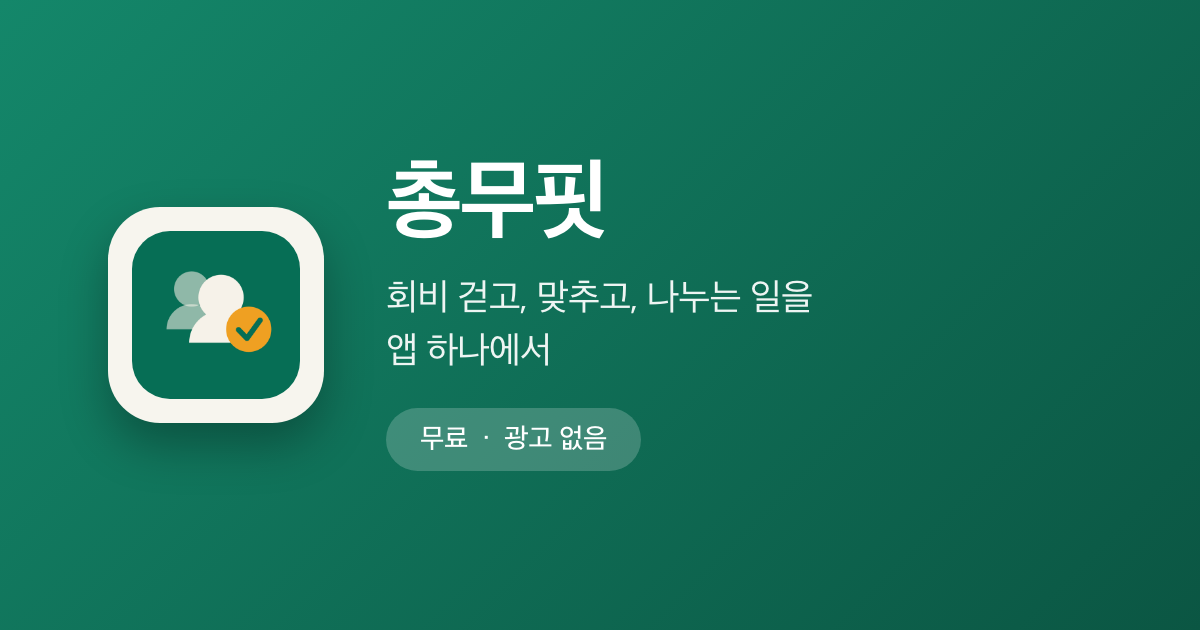
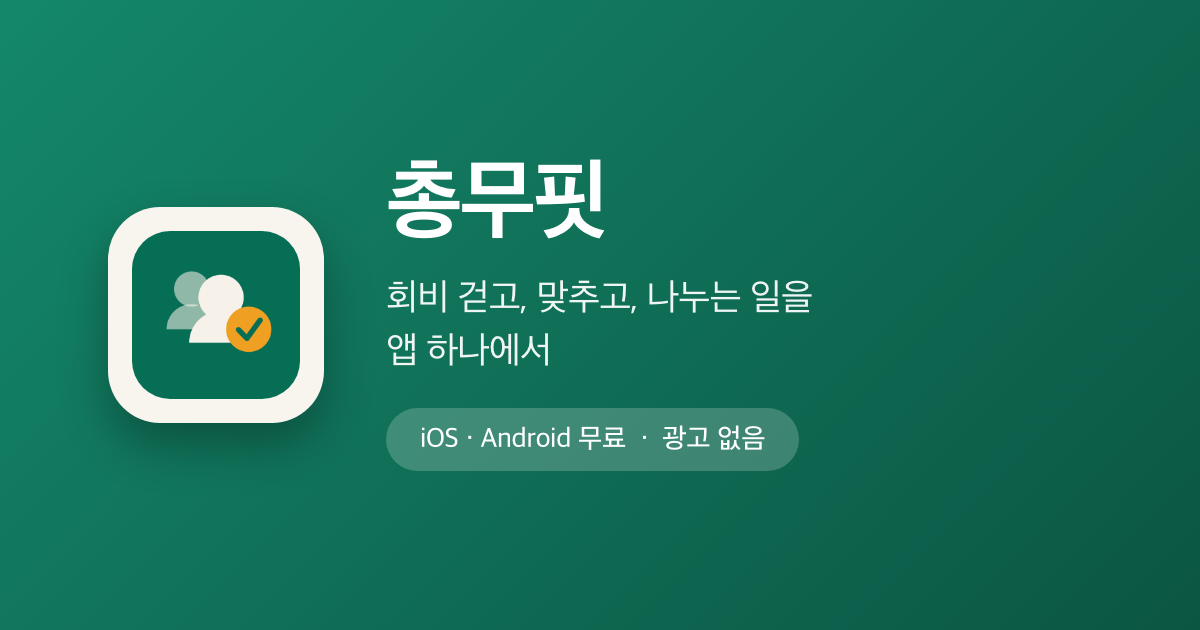
style(chongmufit): OG 배지에 플랫폼 표기 추가
Play 출시로 양쪽 스토어가 다 열렸다. 심사 중이라 미뤄 뒀던 플랫폼 표기를
머니루틴 og.png 와 맞춘다.

  "무료 · 광고 없음" → "iOS · Android 무료 · 광고 없음"

"광고 없음"은 남겼다. 이 앱이 눈에 띄는 지점이고, 플랫폼만 적으면 머니루틴
카드와 구분이 안 간다. 필 폭에 여유가 있어 둘 다 들어간다.

og-source.html 템플릿을 고쳐 헤드리스 Chrome 으로 다시 렌더했다(1200x630,
무손실 최적화 116KB).

Changed region(s): [[0.3392, 0.6333, 0.6783, 0.754]]

diff --git a/chongmufit/og-source.html b/chongmufit/og-source.html
@@ -44,7 +44,7 @@
   <div>
     <h1>총무핏</h1>
     <p class="tagline">회비 걷고, 맞추고, 나누는 일을<br>앱 하나에서</p>
-    <span class="pill">무료 &nbsp;·&nbsp; 광고 없음</span>
+    <span class="pill">iOS · Android 무료 &nbsp;·&nbsp; 광고 없음</span>
   </div>
 </body>
 </html>
